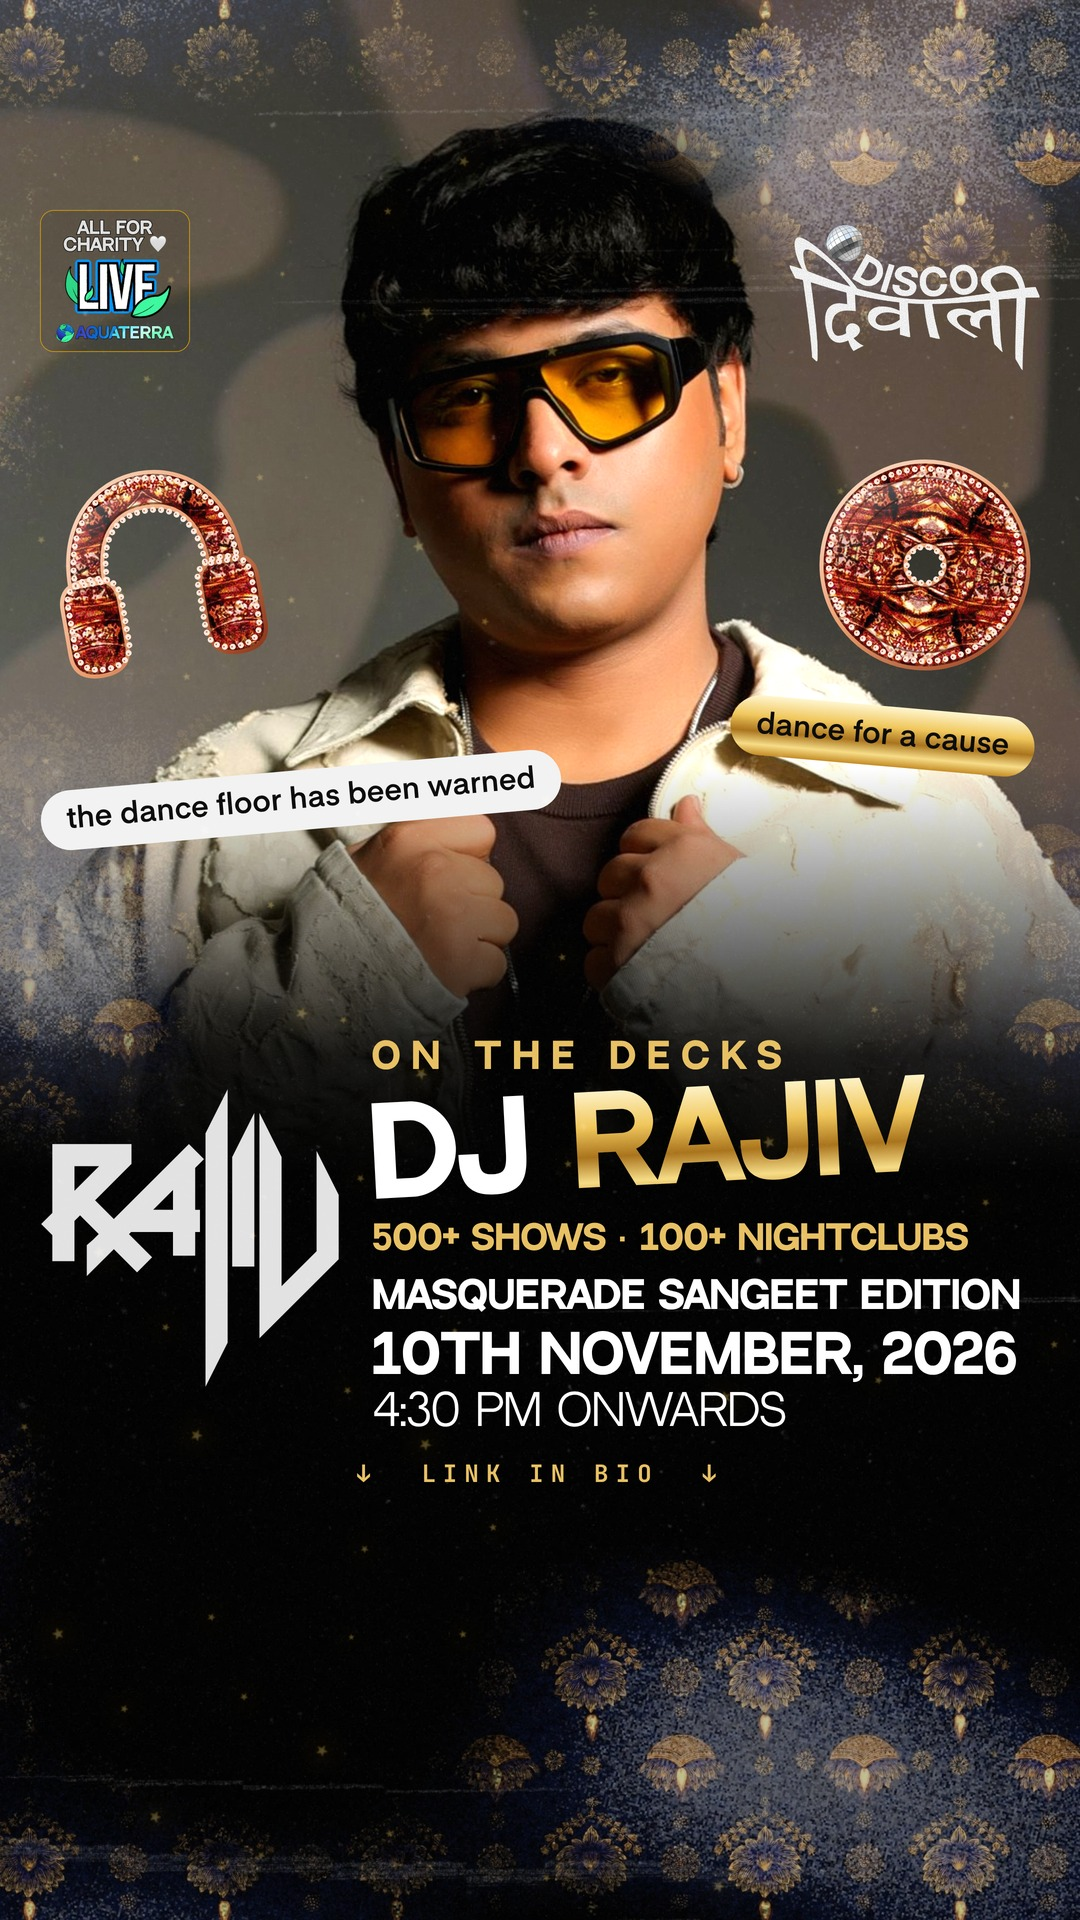
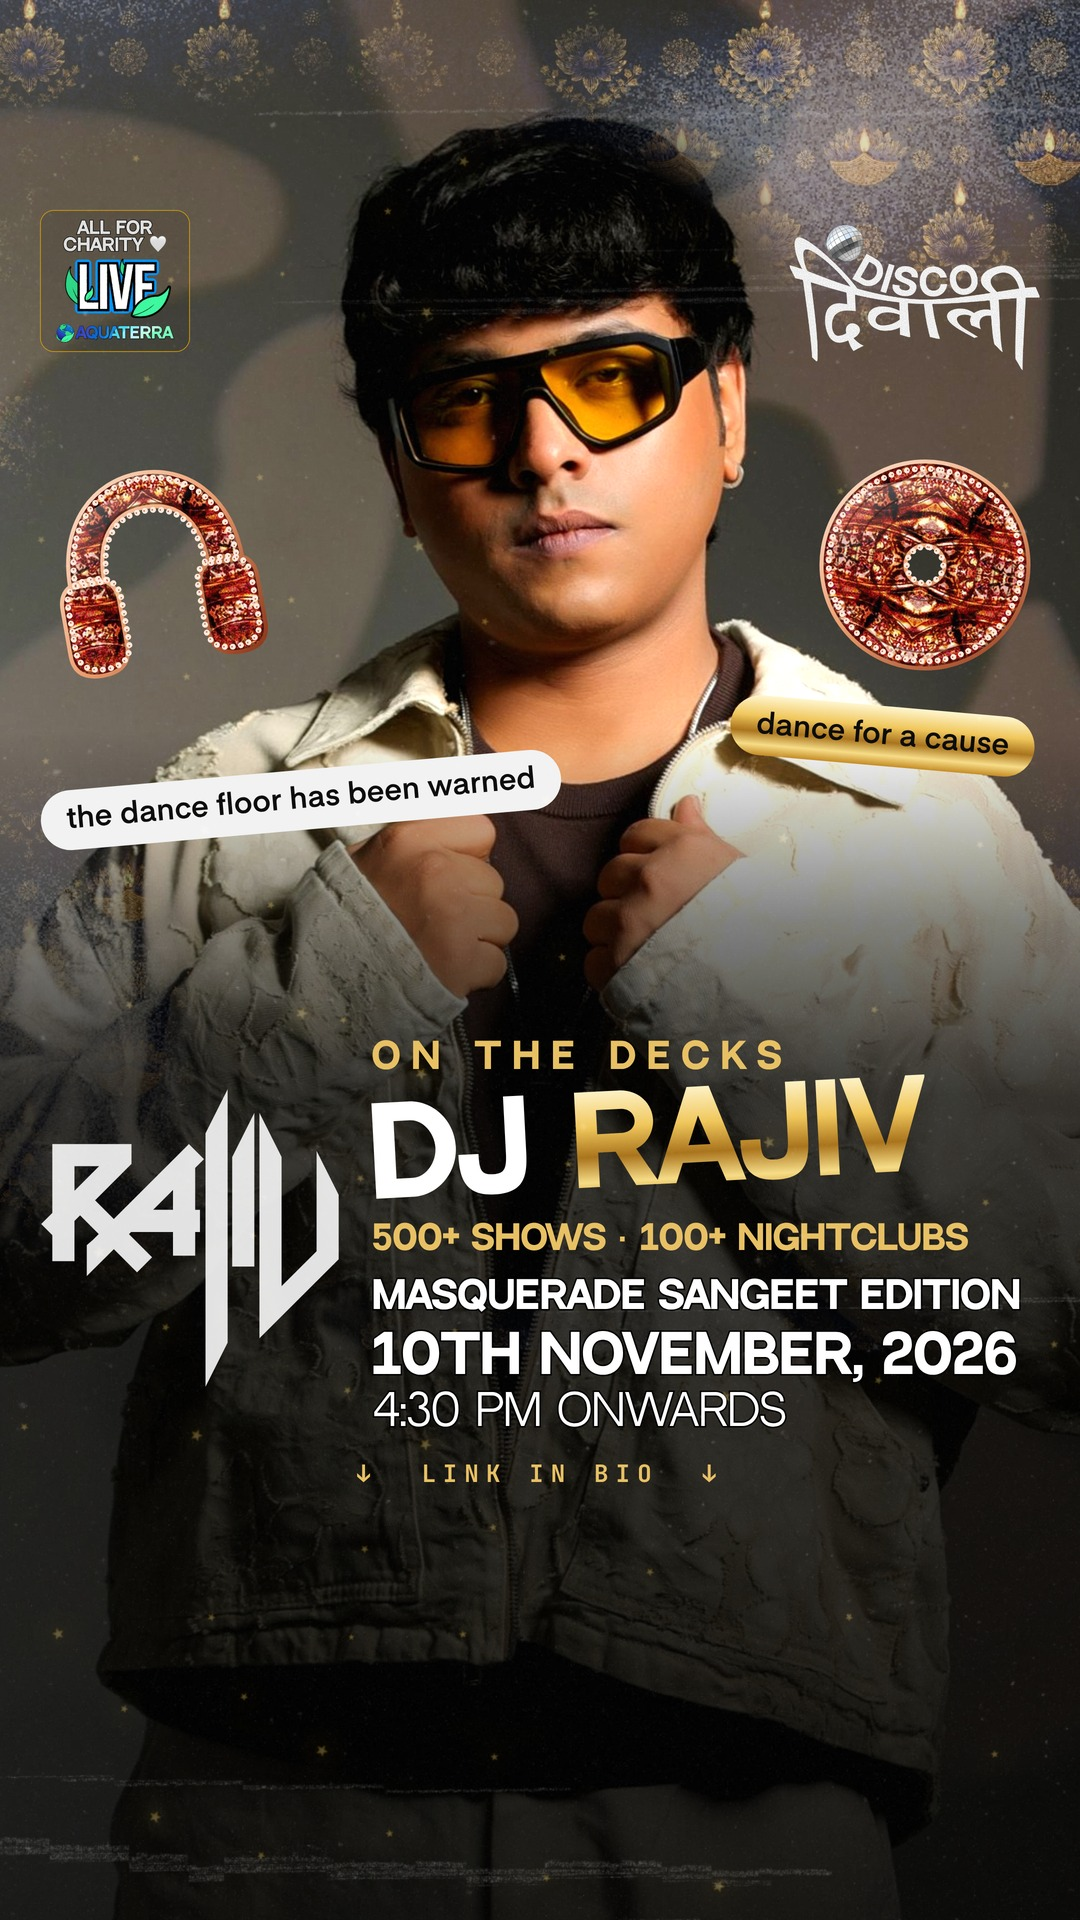
DJ Rajiv story: photo continues to the bottom under a scrim
Replaces the solid-ink fade (black block) and the flipped diya plate (busy pattern) with the
jacket continuing under a ~.8 scrim. Feed unchanged.

Claude-Session: https://claude.ai/code/session_015kc4KVAVHAeNHn96CgGETW

diff --git a/scratchpad/dd_dj_rajiv.py b/scratchpad/dd_dj_rajiv.py
@@ -47,15 +47,11 @@ def build(H):
     P.append(f'<img data-tag="plate" src="{dd.uri("bg_diya_portrait.jpg")}" style="position:absolute;left:0;top:0;width:{W}px;height:{1350 if story else H}px;object-fit:cover;z-index:3;mix-blend-mode:screen;opacity:.8;pointer-events:none;'
              f'-webkit-mask-image:{face_mask};mask-image:{face_mask}">')
     # a story's fade is longer so the jacket does not meet the black in a hard line (v13 showed a seam across the right shoulder), but it still reaches near-solid by the stack's top (y 1040 = 54%)
-    fade = ("linear-gradient(180deg,rgba(0,0,0,0) 0%,rgba(0,0,0,0) 40%,rgba(0,0,0,.5) 48%,rgba(0,0,0,.9) 55%,#000 61%)" if story
+    # STORY (user, 2026-10-23: "i dont like the bottom of the story"): v13 faded to solid ink (a black block under the stack) and v14 filled it with a flipped diya plate (a busy navy pattern). Now the photo
+    # CONTINUES to the bottom edge under a scrim that holds ~.8 dark behind the type and the link zone: the jacket and the wall stay visible, and nothing but a link sticker is expected down there.
+    fade = ("linear-gradient(180deg,rgba(0,0,0,0) 0%,rgba(0,0,0,0) 38%,rgba(0,0,0,.5) 48%,rgba(0,0,0,.78) 57%,rgba(0,0,0,.82) 100%)" if story
             else "linear-gradient(180deg,rgba(0,0,0,0) 0%,rgba(0,0,0,0) 56%,rgba(0,0,0,.78) 68%,#000 80%)")
     P.append(f'<div data-tag="plate" style="position:absolute;inset:0;z-index:4;pointer-events:none;background:{fade}"></div>')
-    if story:
-        # format rule 8 (brain/DISCO_DIWALI.md): a taller canvas stacks a SECOND diya plate, flipped and faded in from the bottom edge, so the lower corners carry the pattern instead of a dead black block.
-        # It sits ABOVE the fade (z 5; the fade is solid black down there and would hide it) and below all type; its centre is black, so the link zone stays clear.
-        flip = "-webkit-mask-image:linear-gradient(to top,transparent 0%,#000 45%);mask-image:linear-gradient(to top,transparent 0%,#000 45%);"
-        P.append(f'<img data-tag="plate" src="{dd.uri("bg_diya_portrait.jpg")}" style="position:absolute;left:0;top:{H - 1350}px;width:{W}px;height:1350px;object-fit:cover;z-index:5;'
-                 f'mix-blend-mode:screen;opacity:.75;pointer-events:none;transform:scaleY(-1);{flip}">')
     P.append(f'<img data-tag="plate" src="{dd.uri("sparkles.png")}" style="position:absolute;inset:0;width:{W}px;height:{H}px;object-fit:cover;z-index:30;mix-blend-mode:screen;opacity:.5;pointer-events:none">'
              f'<img data-tag="plate" src="{dd.uri("grain.png")}" style="position:absolute;inset:0;width:{W}px;height:{H}px;object-fit:cover;z-index:31;mix-blend-mode:screen;opacity:.35;pointer-events:none">')
 

diff --git a/brain/DISCO_DIWALI.md b/brain/DISCO_DIWALI.md
@@ -142,3 +142,5 @@ Feed 1080x1350 from the user's reference (a "know your artist" poster: giant nam
 **Fewer stickers, placed on purpose (user, 2026-10-23: "it feels like there are too many stickers randomly placed").** v11 had five stickers of five sizes and tilts, two chips and a few stray bulbs, none aligned to anything. v12 keeps TWO stickers as a MIRRORED PAIR either side of his head (headphones left, vinyl right: same 220px, same top y, opposite tilts of 10 degrees, centres equidistant from the canvas axis), the two chips (also a left/right pair at similar heights), and drops the string lights. Rule of thumb (PROVEN by the user's reaction): decoration is a count and an alignment decision, not a fill. Aim for one idea (a pair, a row, or one hero) and check that each piece lines up with another piece or with the subject. `DJ_EXTRAS=1` restores ball, bolt and notes; `LIGHTS=1` the bulbs.
 
 **DJ Rajiv story (user, 2026-10-23: "make a story version too") — `scratchpad/dd_dj_rajiv.py` now renders feed AND story from one `build(H)`; JPEGs `dj_rajiv_feed.jpg` and `dj_rajiv_story.jpg`.** Story rules honoured: nothing in the top 200px (badge and lockup start at y 210 and 226), no link pill, a small LINK IN BIO cue at y 1462 above the declared `linkzone` (640x165 at y 1505) that nothing enters, and the bottom 250px empty. The photo is cropped to 9:16 around his face (`object-position: 62% 0`), the type stack is scaled 1.18x and anchored so it ENDS at y 1440, and the stickers and chips are re-placed against the new face position, not scaled (the pair is still mirrored: centres 385px either side of the axis). Format rule 8 applied: a SECOND diya plate, flipped and faded in from the bottom, fills the lower corners, placed ABOVE the black fade (z 5; at z 3 the fade hides it) and below all type. The story's fade is longer than the feed's (clear to 40%, solid by 61%) because a short fade left a hard horizontal seam across the cream shoulder. Lesson (PROVEN): the diya mask ellipse is in px on a story, because percentage radii resolve against the TALLER box and would swallow the whole upper half. The experiment switches from the earlier iterations (`STICKERS`, `COPPER_SET`, `MASK`, `FUN`, `LIGHTS`, `DJ_EXTRAS`) were REMOVED in this refactor, their decisions being settled; recover them from git history (commit 6cf0cf1 and earlier).
+
+**Story bottom redone (user, 2026-10-23: "i dont like the bottom of the story"). SUPERSEDES the two story-bottom treatments above.** v13's fade to solid ink left a black block under the stack, and v14's flipped diya plate (format rule 8) filled it with a busy navy pattern; the user disliked the bottom either way. v15 lets the PHOTO continue to the bottom edge under a scrim that holds about .8 dark (clear to 38%, .5 at 48%, .78 at 57%, .82 to the end): his jacket and the wall stay visible down there, the type and the link zone stay readable, and the reserved zone reads as calm fabric for the link sticker. Rule of thumb for a story whose bottom third is reserved: continue the subject under a scrim, do not fill the space with black or with pattern. Format rule 8 (a second flipped plate on a taller canvas) is for plate-ground posters; on a full-bleed PHOTO ground the photo itself already fills the height. The unused second plate and its lesson about z-order (the black fade hides a plate beneath it) are no longer in the script.
